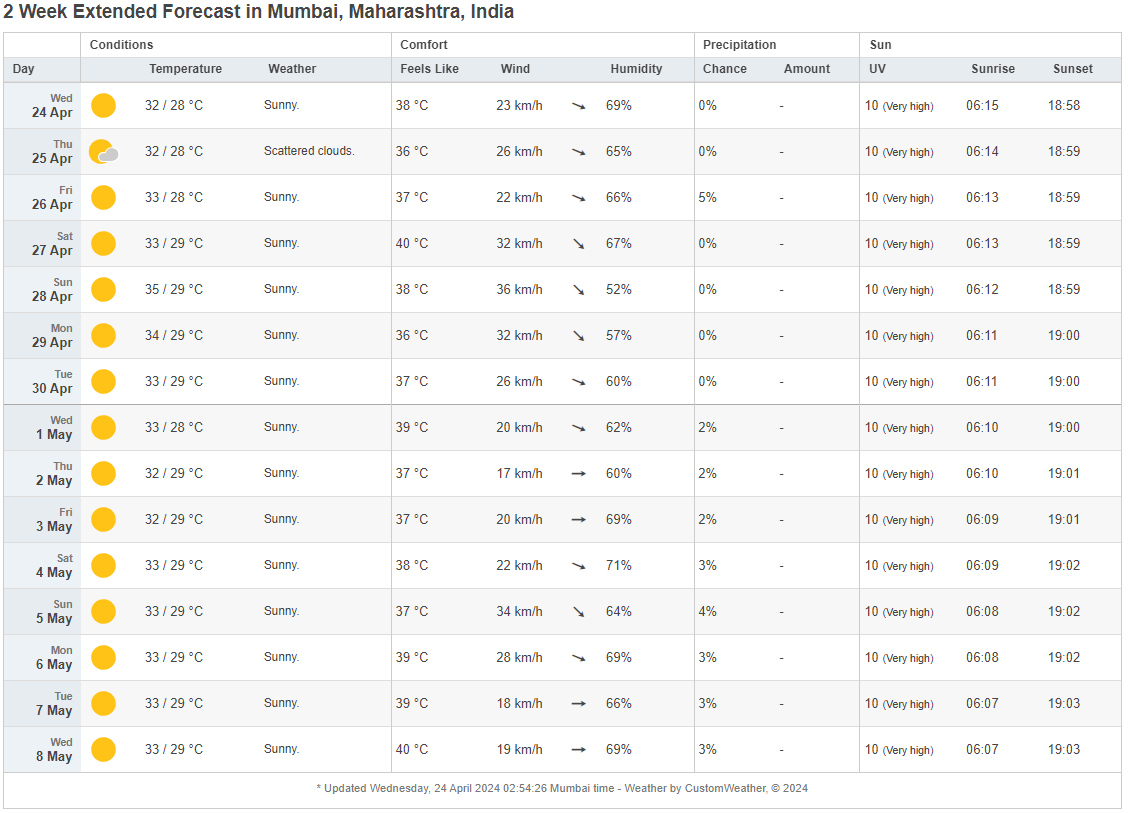
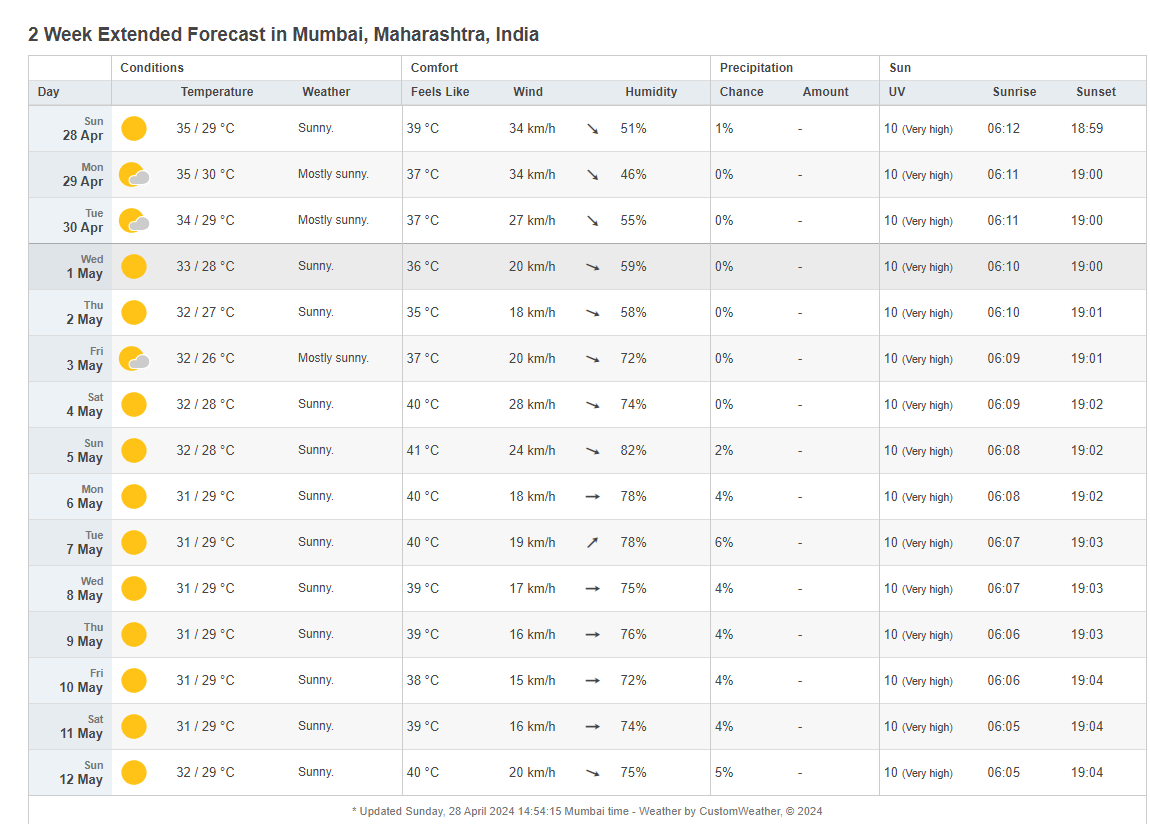
updating the weather data

Changed region(s): [[0.0, 0.0, 1.0, 1.0], [0.9309, 0.861, 0.9619, 0.9533], [0.0, 0.984, 0.031, 1.0]]

diff --git a/app.py b/app.py
@@ -100,7 +100,7 @@ if city == 'mumbai':
 
 elif city == 'bhopal':
     st.header(" 2 Week Extended forecasting of weather 👇", divider='rainbow')
-    st.image('bhopal data 2 week.PNG',width= 1400)
+    st.image('bhopal.png',width= 1400)
     df2 = pd.DataFrame({'lat':[23.264],
                         'lon':[77.402]})
 
@@ -122,9 +122,46 @@ elif city == 'london':
 
     st.map(df2, size=200, color='#FF5733')
 
+elif city == 'fatehpur':
+    st.header(" 2 Week Extended forecasting of weather 👇", divider='rainbow')
+    st.image('fatehpur.png',width= 1400)
+    df2 = pd.DataFrame({'lat':[51.51279],
+                        'lon':[-0.09184]})
+
+    st.map(df2, size=200, color='#FF5733')
+    
+elif city == 'kanpur':
+    st.header(" 2 Week Extended forecasting of weather 👇", divider='rainbow')
+    st.image('kanpurr.png',width= 1400)
+    df2 = pd.DataFrame({'lat':[51.51279],
+                        'lon':[-0.09184]})
+
+    st.map(df2, size=200, color='#FF5733')
+elif city == 'allahabad':
+    st.header(" 2 Week Extended forecasting of weather 👇", divider='rainbow')
+    st.image('prayag.png',width= 1400)
+    df2 = pd.DataFrame({'lat':[51.51279],
+                        'lon':[-0.09184]})
+
+    st.map(df2, size=200, color='#FF5733')
+elif city == 'sehore':
+    st.header(" 2 Week Extended forecasting of weather 👇", divider='rainbow')
+    st.image('sehore.png',width= 1400)
+    df2 = pd.DataFrame({'lat':[51.51279],
+                        'lon':[-0.09184]})
+
+    st.map(df2, size=200, color='#FF5733')
+elif city == 'usa':
+    st.header(" 2 Week Extended forecasting of weather 👇", divider='rainbow')
+    st.image('usa.png',width= 1400)
+    df2 = pd.DataFrame({'lat':[51.51279],
+                        'lon':[-0.09184]})
+
+    st.map(df2, size=200, color='#FF5733')
+
 elif city == 'jaunpur':
     st.header(" 2 Week Extended forecasting of weather 👇", divider='rainbow')
-    st.image('jaunpur data 2 week.PNG',width= 1400)
+    st.image('jaunpur.png',width= 1400)
     df2 = pd.DataFrame({'lat':[25.744],
                         'lon':[82.6837]})
 
@@ -132,7 +169,7 @@ elif city == 'jaunpur':
 
 elif city == 'england':
     st.header(" 2 Week Extended forecasting of weather 👇", divider='rainbow')
-    st.image('london, uk, england.PNG',width= 1400)
+    st.image('england.png',width= 1400)
     df2 = pd.DataFrame({'lat':[52.3555],
                         'lon':[1.1743]})
 
@@ -140,6 +177,7 @@ elif city == 'england':
 
 elif city == 'moscow':
     st.header(" 2 Week Extended forecasting of weather 👇", divider='rainbow')
+    st.image('russia.png', width=1400)
     st.write(df.head(9))
     st.area_chart(df[['tempmax','tempmin']].head(9))
     df2 = pd.DataFrame({'lat':[55.755],
